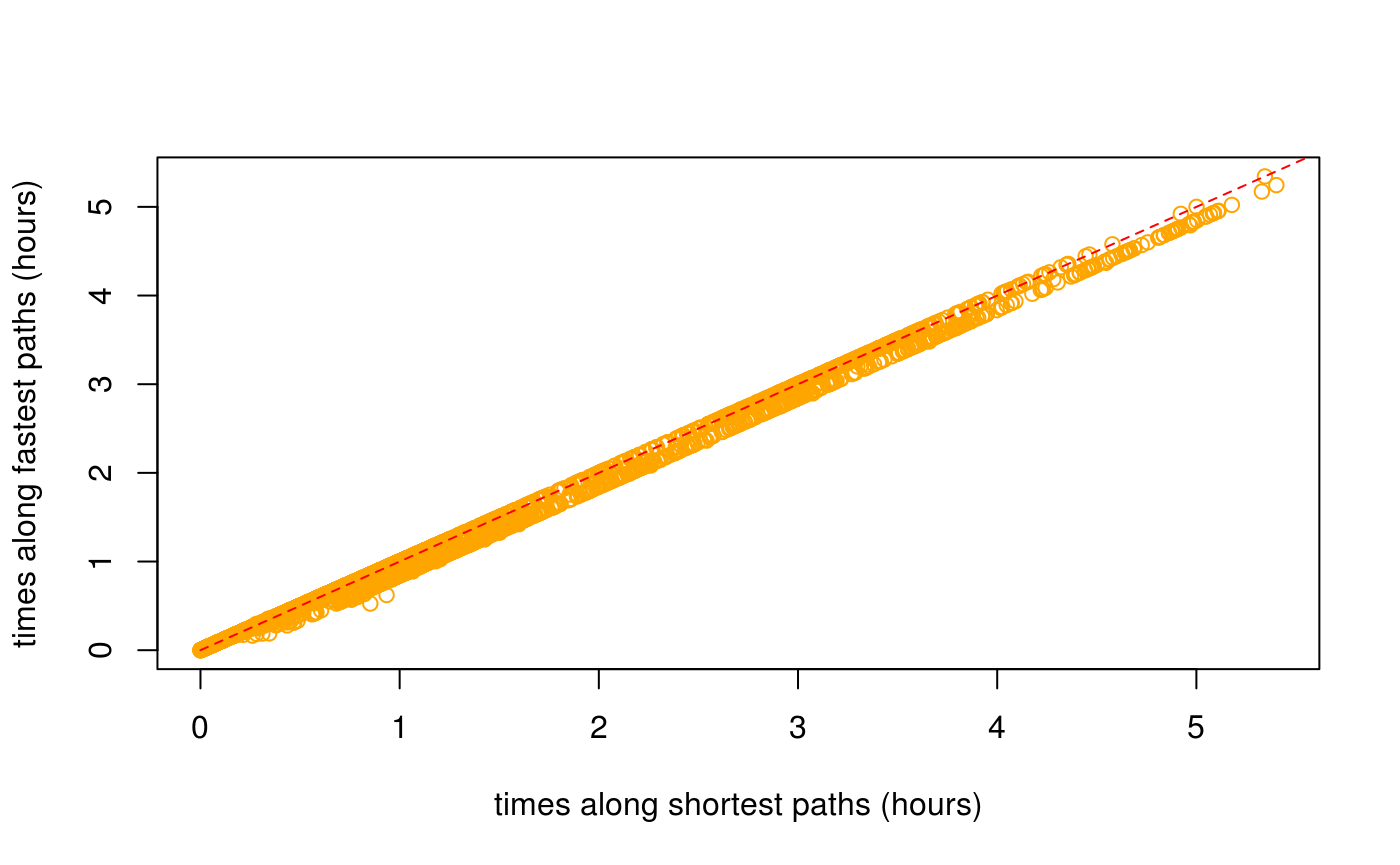
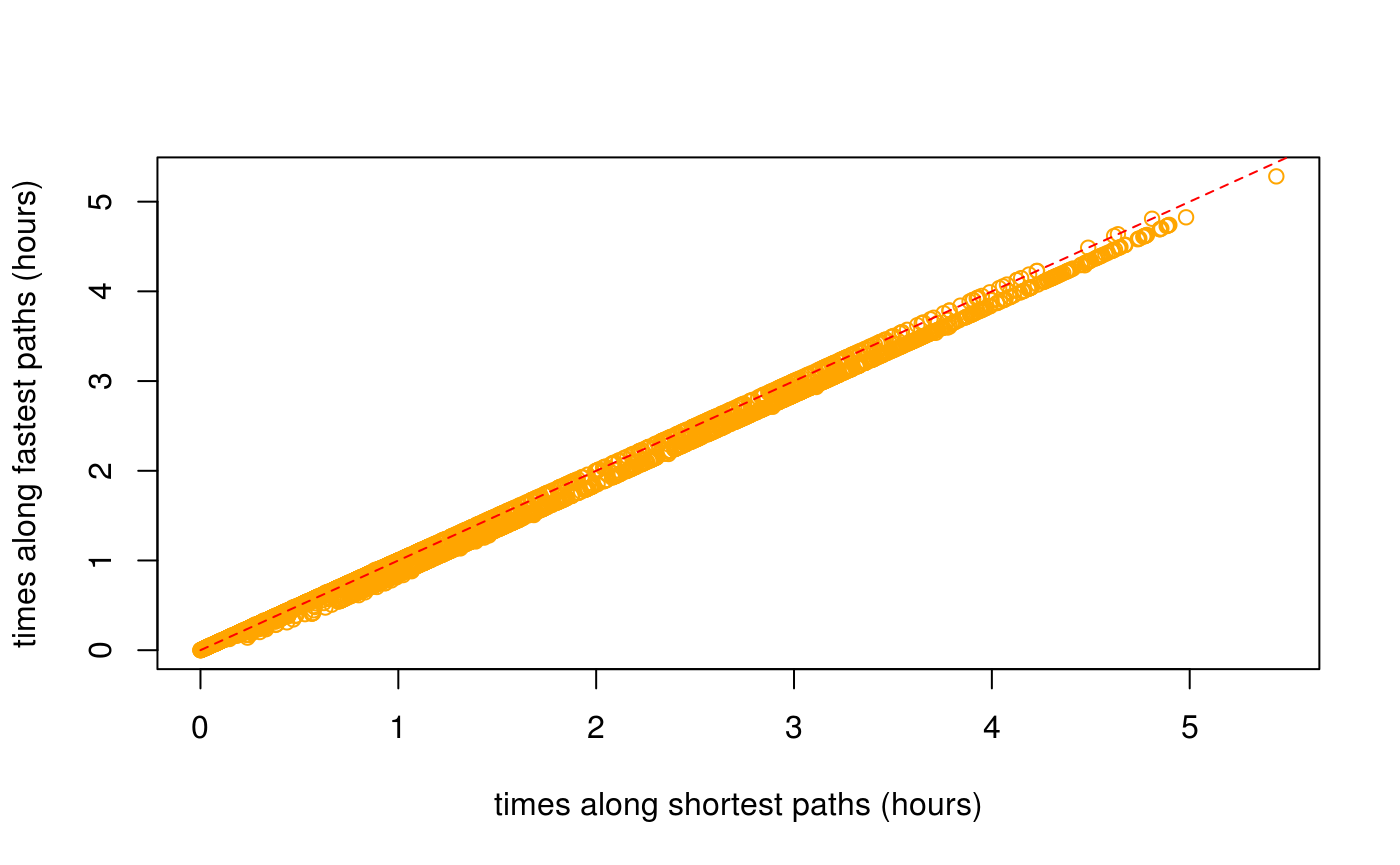
Built site for dodgr: 0.1.3.3@ded7110

diff --git a/articles/dodgr.html b/articles/dodgr.html
@@ -343,7 +343,7 @@ Figure 2: A <strong>dual</strong>-weighted, directed graph in which the weights 
 <p>The <code>dodgr</code> packages includes a function to select a random connected portion of graph including a specified number of vertices. This function is used in the <code><a href="../reference/compare_heaps.html">compare_heaps()</a></code> function described below, but is also useful for general statistical analyses of large graphs which may otherwise take too long to compute.</p>
 <div class="sourceCode" id="cb59"><pre class="sourceCode r"><code class="sourceCode r"><a class="sourceLine" id="cb59-1" data-line-number="1">graph_sub &lt;-<span class="st"> </span><span class="kw"><a href="../reference/dodgr_sample.html">dodgr_sample</a></span> (graph, <span class="dt">nverts =</span> <span class="dv">100</span>)</a>
 <a class="sourceLine" id="cb59-2" data-line-number="2"><span class="kw"><a href="https://www.rdocumentation.org/packages/base/topics/nrow">nrow</a></span> (graph_sub)</a></code></pre></div>
-<pre><code>## [1] 201</code></pre>
+<pre><code>## [1] 197</code></pre>
 <p>The random sample has around twice as many edges as vertices, in accordance with the statistics calculated above.</p>
 <div class="sourceCode" id="cb61"><pre class="sourceCode r"><code class="sourceCode r"><a class="sourceLine" id="cb61-1" data-line-number="1"><span class="kw"><a href="https://www.rdocumentation.org/packages/base/topics/nrow">nrow</a></span> (<span class="kw"><a href="../reference/dodgr_vertices.html">dodgr_vertices</a></span> (graph_sub))</a></code></pre></div>
 <pre><code>## [1] 100</code></pre>
@@ -421,30 +421,30 @@ Figure 2: A <strong>dual</strong>-weighted, directed graph in which the weights 
 <div class="sourceCode" id="cb77"><pre class="sourceCode r"><code class="sourceCode r"><a class="sourceLine" id="cb77-1" data-line-number="1"><span class="kw"><a href="../reference/compare_heaps.html">compare_heaps</a></span> (graph, <span class="dt">nverts =</span> <span class="dv">100</span>, <span class="dt">replications =</span> <span class="dv">1</span>)</a></code></pre></div>
 <pre><code>##                                                                                   test
 ## 12                  d &lt;- igraph::distances(igr, v = from_id, to = to_id, mode = "out")
+## 8     d &lt;- dodgr_dists(graph_contracted, from = from_id, to = to_id, heap = "TriHeap")
+## 9  d &lt;- dodgr_dists(graph_contracted, from = from_id, to = to_id, heap = "TriHeapExt")
+## 11        d &lt;- dodgr_dists(graph_contracted, from = from_id, to = to_id, heap = "set")
+## 2                  d &lt;- dodgr_dists(graph, from = from_id, to = to_id, heap = "FHeap")
+## 3                d &lt;- dodgr_dists(graph, from = from_id, to = to_id, heap = "TriHeap")
 ## 4             d &lt;- dodgr_dists(graph, from = from_id, to = to_id, heap = "TriHeapExt")
 ## 5                 d &lt;- dodgr_dists(graph, from = from_id, to = to_id, heap = "Heap23")
 ## 6       d &lt;- dodgr_dists(graph_contracted, from = from_id, to = to_id, heap = "BHeap")
-## 8     d &lt;- dodgr_dists(graph_contracted, from = from_id, to = to_id, heap = "TriHeap")
-## 9  d &lt;- dodgr_dists(graph_contracted, from = from_id, to = to_id, heap = "TriHeapExt")
-## 10     d &lt;- dodgr_dists(graph_contracted, from = from_id, to = to_id, heap = "Heap23")
-## 11        d &lt;- dodgr_dists(graph_contracted, from = from_id, to = to_id, heap = "set")
-## 1                  d &lt;- dodgr_dists(graph, from = from_id, to = to_id, heap = "BHeap")
-## 2                  d &lt;- dodgr_dists(graph, from = from_id, to = to_id, heap = "FHeap")
-## 3                d &lt;- dodgr_dists(graph, from = from_id, to = to_id, heap = "TriHeap")
 ## 7       d &lt;- dodgr_dists(graph_contracted, from = from_id, to = to_id, heap = "FHeap")
+## 10     d &lt;- dodgr_dists(graph_contracted, from = from_id, to = to_id, heap = "Heap23")
+## 1                  d &lt;- dodgr_dists(graph, from = from_id, to = to_id, heap = "BHeap")
 ##    replications elapsed relative user.self sys.self user.child sys.child
-## 12            1   0.001        1     0.004        0          0         0
-## 4             1   0.002        2     0.000        0          0         0
-## 5             1   0.002        2     0.000        0          0         0
-## 6             1   0.002        2     0.004        0          0         0
-## 8             1   0.002        2     0.004        0          0         0
-## 9             1   0.002        2     0.004        0          0         0
-## 10            1   0.002        2     0.004        0          0         0
-## 11            1   0.002        2     0.004        0          0         0
-## 1             1   0.003        3     0.000        0          0         0
-## 2             1   0.003        3     0.004        0          0         0
-## 3             1   0.003        3     0.004        0          0         0
-## 7             1   0.003        3     0.004        0          0         0</code></pre>
+## 12            1   0.001        1     0.000    0.000          0         0
+## 8             1   0.002        2     0.004    0.000          0         0
+## 9             1   0.002        2     0.000    0.004          0         0
+## 11            1   0.002        2     0.004    0.000          0         0
+## 2             1   0.003        3     0.004    0.000          0         0
+## 3             1   0.003        3     0.004    0.000          0         0
+## 4             1   0.003        3     0.000    0.000          0         0
+## 5             1   0.003        3     0.004    0.000          0         0
+## 6             1   0.003        3     0.004    0.000          0         0
+## 7             1   0.003        3     0.004    0.000          0         0
+## 10            1   0.003        3     0.000    0.000          0         0
+## 1             1   0.004        4     0.000    0.000          0         0</code></pre>
 <p>The key column of that <code>data.frame</code> is <code>relative</code>, which quantifies the relative performance of each test in relation to the best which is given a score of 1. <code>dodgr</code> using the default <code>heap = "BHeap"</code>, which is a binary heap priority queue, performs faster than <code>igraph</code> <span class="citation">(Csardi and Nepusz 2006)</span> for these graphs. Different kind of graphs will perform differently with different priority queue structures, and this function enables users to empirically discern the optimal heap for their kind of graph.</p>
 <p>Note, however, that this is not an entirely fair comparison, because <code>dodgr</code> calculates dual-weighted distances, whereas <code>igraph</code>—and indeed all other <strong>R</strong> packages—only directly calculate distances based on a single set of weights. Implementing dual-weighted routing in these cases requires explicitly re-tracing all paths and summing the second set of weights along each path. A time comparison in that case would be very strongly in favour of <code>dodgr</code>. Moreover, <code>dodgr</code> can convert graphs to contracted form through removing redundant vertices, as detailed in the following section. Doing so greatly improves performance with respect to <code>igraph</code>.</p>
 <p>For those wishing to do explicit comparisons themselves, the following code generates the <code>igraph</code> equivalent of <code><a href="../reference/dodgr_dists.html">dodgr_dists()</a></code>, although of course for single-weighted graphs only:</p>
@@ -481,10 +481,10 @@ Figure 3: <strong>(A)</strong> Vertex#2 is redundant for routing calculations fr
 <a class="sourceLine" id="cb85-5" data-line-number="5">                       d2 &lt;-<span class="st"> </span><span class="kw"><a href="../reference/dodgr_dists.html">dodgr_dists</a></span> (graph, <span class="dt">from =</span> from, <span class="dt">to =</span> to),</a>
 <a class="sourceLine" id="cb85-6" data-line-number="6">                       <span class="dt">replications =</span> <span class="dv">2</span>)</a></code></pre></div>
 <pre><code>##                                             test replications elapsed
-## 2 d2 &lt;- dodgr_dists(graph, from = from, to = to)            2   0.051
+## 2 d2 &lt;- dodgr_dists(graph, from = from, to = to)            2   0.049
 ## 1   d2 &lt;- dodgr_dists(grc, from = from, to = to)            2   0.010
 ##   relative user.self sys.self user.child sys.child
-## 2      5.1     0.072    0.000          0         0
+## 2      4.9     0.068    0.000          0         0
 ## 1      1.0     0.008    0.004          0         0</code></pre>
 <p>And contracting the graph has a similar effect of speeding up pairwise routing between these 100 points. All routing algorithms scale non-linearly with size, and relative improvements in efficiency will be even greater for larger graphs.</p>
 <div id="routing-on-contracted-graphs" class="section level2">
@@ -497,11 +497,11 @@ Figure 3: <strong>(A)</strong> Vertex#2 is redundant for routing calculations fr
 <pre><code>## [1] 688</code></pre>
 <div class="sourceCode" id="cb89"><pre class="sourceCode r"><code class="sourceCode r"><a class="sourceLine" id="cb89-1" data-line-number="1">verts &lt;-<span class="st"> </span><span class="kw"><a href="https://www.rdocumentation.org/packages/base/topics/sample">sample</a></span> (<span class="kw"><a href="../reference/dodgr_vertices.html">dodgr_vertices</a></span> (graph)<span class="op">$</span>id, <span class="dt">size =</span> <span class="dv">100</span>)</a>
 <a class="sourceLine" id="cb89-2" data-line-number="2"><span class="kw"><a href="https://www.rdocumentation.org/packages/utils/topics/head">head</a></span> (verts) <span class="co"># a character vector</span></a></code></pre></div>
-<pre><code>## [1] "2398957836" "1376768524" "4506481424" "2398957837" "1398748018"
-## [6] "339318488"</code></pre>
+<pre><code>## [1] "2398957713" "1143452379" "339577287"  "4337842197" "2398957746"
+## [6] "4035136519"</code></pre>
 <div class="sourceCode" id="cb91"><pre class="sourceCode r"><code class="sourceCode r"><a class="sourceLine" id="cb91-1" data-line-number="1">grc &lt;-<span class="st"> </span><span class="kw"><a href="../reference/dodgr_contract_graph.html">dodgr_contract_graph</a></span> (graph, verts)<span class="op">$</span>graph</a>
 <a class="sourceLine" id="cb91-2" data-line-number="2"><span class="kw"><a href="https://www.rdocumentation.org/packages/base/topics/nrow">nrow</a></span> (grc)</a></code></pre></div>
-<pre><code>## [1] 863</code></pre>
+<pre><code>## [1] 875</code></pre>
 <p>Retaining the nominated vertices yields a graph with considerably more edges than the fully contracted graph excluding these vertices. The <code><a href="../reference/dodgr_dists.html">dodgr_dists()</a></code> function can be applied to the latter graph to obtain accurate distances precisely routed between these points, yet using the speed advantages of graph contraction.</p>
 </div>
 </div>
@@ -542,24 +542,36 @@ Figure 3: <strong>(A)</strong> Vertex#2 is redundant for routing calculations fr
 <pre><code>## [1] 10</code></pre>
 <p>The result (<code>dp</code>) is a list of 10 items, each of which contains 5 vectors. An example is,</p>
 <div class="sourceCode" id="cb98"><pre class="sourceCode r"><code class="sourceCode r"><a class="sourceLine" id="cb98-1" data-line-number="1">dp [[<span class="dv">1</span>]] [[<span class="dv">1</span>]]</a></code></pre></div>
-<pre><code>##  [1] "3921514723" "3921514720" "3921514718" "2627444775" "571423170" 
-##  [6] "2627444774" "977490136"  "1143452068" "1143452367" "977490059" 
-## [11] "1143452278" "1143452159" "1143452544" "977490089"  "1143452396"
-## [16] "1143452220" "977490123"  "1143452126" "1143452489" "1143452342"
-## [21] "1143452177" "1143452089" "1143452419" "1143452299" "1143452136"
-## [26] "1143452064" "1143452363" "977490103"  "1143452242" "1143452100"
-## [31] "1143452508"</code></pre>
+<pre><code>##  [1] "1376768521" "1376769110" "3697937607" "3697937608" "3697937609"
+##  [6] "3697937616" "3697937612" "3697937611" "3697937613" "3697937614"
+## [11] "3697937615" "3697937610" "3697937571" "3697938325" "3697938326"
+## [16] "3697938327" "3697938328" "3697938332" "3697938329" "3697938330"
+## [21] "3697938331" "3697938336" "3697938337" "3697938338" "3697938333"
+## [26] "3697938334" "3697938335" "3697938022" "3697938021" "3697938023"
+## [31] "3697938024" "338904455"  "2398957843" "338908589"  "1148814896"
+## [36] "286632900"  "2398957865" "676875132"  "1148815150" "286632901" 
+## [41] "2398957883" "2398957885" "339574320"  "2627477682" "339574319" 
+## [46] "339574318"  "339574317"  "339574316"  "339574315"  "339574314" 
+## [51] "2636406742" "339574313"  "4474520829" "977478646"  "339059757" 
+## [56] "339060017"  "1148814953" "339060018"  "980400557"  "339060019" 
+## [61] "2717241328" "339060040"  "2717241313" "339060049"  "339287962" 
+## [66] "339287997"  "339288031"  "339288035"  "339288038"  "339288042" 
+## [71] "339288044"  "339288046"  "339288048"  "339288056"  "339288058" 
+## [76] "2428925771" "339288064"  "339288066"  "339288070"  "339288072" 
+## [81] "339288073"  "339288548"  "339288551"  "339288561"  "339288564" 
+## [86] "339288565"  "339288566"  "339288567"  "339288568"  "339288569" 
+## [91] "339288570"</code></pre>
 <p>For spatial graphs, the coordinates of these paths can be obtained by extracting the vertices with <code><a href="../reference/dodgr_vertices.html">dodgr_vertices()</a></code> and matching the vertex IDs:</p>
 <div class="sourceCode" id="cb100"><pre class="sourceCode r"><code class="sourceCode r"><a class="sourceLine" id="cb100-1" data-line-number="1">verts &lt;-<span class="st"> </span><span class="kw"><a href="../reference/dodgr_vertices.html">dodgr_vertices</a></span> (graph)</a>
 <a class="sourceLine" id="cb100-2" data-line-number="2">path1 &lt;-<span class="st"> </span>verts [<span class="kw"><a href="https://www.rdocumentation.org/packages/base/topics/match">match</a></span> (dp [[<span class="dv">1</span>]] [[<span class="dv">1</span>]], verts<span class="op">$</span>id), ]</a>
 <a class="sourceLine" id="cb100-3" data-line-number="3"><span class="kw"><a href="https://www.rdocumentation.org/packages/utils/topics/head">head</a></span> (path1)</a></code></pre></div>
 <pre><code>##              id        x        y component    n
-## 5432 3921514723 76.47011 15.35170         2 2663
-## 5430 3921514720 76.46943 15.35169         2 2662
-## 1702 3921514718 76.46921 15.35184         2  862
-## 1704 2627444775 76.46926 15.35189         2  863
-## 1706  571423170 76.46950 15.35204         2  864
-## 1708 2627444774 76.46991 15.35215         2  865</code></pre>
+## 2668 1376768521 76.46890 15.32882         1 1340
+## 2666 1376769110 76.46868 15.32884         1 1339
+## 5018 3697937607 76.46856 15.32906         1 2475
+## 5020 3697937608 76.46840 15.32926         1 2476
+## 5022 3697937609 76.46815 15.32935         1 2477
+## 5024 3697937616 76.46804 15.32937         1 2478</code></pre>
 <p>Paths calculated on contracted graphs will of course have fewer vertices than those calculated on full graphs.</p>
 </div>
 <div id="aggregated-flows" class="section level1">
@@ -603,7 +615,7 @@ Figure 3: <strong>(A)</strong> Vertex#2 is redundant for routing calculations fr
 <p>Most flows are zero because they have only been calculated between very few points in the graph.</p>
 <div class="sourceCode" id="cb105"><pre class="sourceCode r"><code class="sourceCode r"><a class="sourceLine" id="cb105-1" data-line-number="1"><span class="kw"><a href="https://www.rdocumentation.org/packages/base/topics/summary">summary</a></span> (graph_f<span class="op">$</span>flow)</a></code></pre></div>
 <pre><code>##    Min. 1st Qu.  Median    Mean 3rd Qu.    Max. 
-##   0.000   0.000   0.000   6.196   0.000 101.004</code></pre>
+##   0.000   0.000   0.000   3.505   0.000  72.947</code></pre>
 </div>
 <div id="flow-dispersal" class="section level2">
 <h2 class="hasAnchor">
@@ -613,7 +625,7 @@ Figure 3: <strong>(A)</strong> Vertex#2 is redundant for routing calculations fr
 <a class="sourceLine" id="cb107-2" data-line-number="2">graph_f &lt;-<span class="st"> </span><span class="kw"><a href="../reference/dodgr_flows_disperse.html">dodgr_flows_disperse</a></span> (graph, <span class="dt">from =</span> from, <span class="dt">dens =</span> dens)</a>
 <a class="sourceLine" id="cb107-3" data-line-number="3"><span class="kw"><a href="https://www.rdocumentation.org/packages/base/topics/summary">summary</a></span> (graph_f<span class="op">$</span>flow)</a></code></pre></div>
 <pre><code>##      Min.   1st Qu.    Median      Mean   3rd Qu.      Max. 
-## 0.000e+00 0.000e+00 0.000e+00 4.533e-06 0.000e+00 1.054e-02</code></pre>
+## 0.000e+00 0.000e+00 0.000e+00 4.465e-06 0.000e+00 1.554e-02</code></pre>
 </div>
 <div id="merging-directed-flows" class="section level2">
 <h2 class="hasAnchor">
@@ -623,7 +635,7 @@ Figure 3: <strong>(A)</strong> Vertex#2 is redundant for routing calculations fr
 <p>Resultant graphs produced by <code><a href="../reference/merge_directed_flows.html">merge_directed_flows()</a></code> only include those edges having non-zero flows, and so:</p>
 <div class="sourceCode" id="cb110"><pre class="sourceCode r"><code class="sourceCode r"><a class="sourceLine" id="cb110-1" data-line-number="1"><span class="kw"><a href="https://www.rdocumentation.org/packages/base/topics/nrow">nrow</a></span> (graph_f); <span class="kw"><a href="https://www.rdocumentation.org/packages/base/topics/nrow">nrow</a></span> (graph_undir) <span class="co"># the latter is much smaller</span></a></code></pre></div>
 <pre><code>## [1] 5845</code></pre>
-<pre><code>## [1] 1388</code></pre>
+<pre><code>## [1] 1838</code></pre>
 <p>The resultant graph can readily be merged with the original graph to regain the original data on vertex coordinates through</p>
 <div class="sourceCode" id="cb113"><pre class="sourceCode r"><code class="sourceCode r"><a class="sourceLine" id="cb113-1" data-line-number="1">graph &lt;-<span class="st"> </span>graph [graph_undir<span class="op">$</span>edge_id, ]</a>
 <a class="sourceLine" id="cb113-2" data-line-number="2">graph<span class="op">$</span>flow &lt;-<span class="st"> </span>graph_undir<span class="op">$</span>flow</a></code></pre></div>

diff --git a/articles/times.html b/articles/times.html
@@ -233,11 +233,11 @@ Figure 1: Graph modification to account for turn angles, which introduces the ad
 <p><img src="times_files/figure-html/shortest-vs-fastest-1.png" width="700"></p>
 <p>The average distance between the two (in metres) is:</p>
 <div class="sourceCode" id="cb11"><pre class="sourceCode r"><code class="sourceCode r"><a class="sourceLine" id="cb11-1" data-line-number="1"><span class="kw"><a href="https://www.rdocumentation.org/packages/base/topics/mean">mean</a></span> (<span class="kw"><a href="https://www.rdocumentation.org/packages/base/topics/MathFun">abs</a></span> (d_time <span class="op">-</span><span class="st"> </span>d_dist), <span class="dt">na.rm =</span> <span class="ot">TRUE</span>)</a></code></pre></div>
-<pre><code>## [1] 26.01338</code></pre>
+<pre><code>## [1] 32.77196</code></pre>
 <p>The plot reveals that shortest distances are indeed somewhat shorter than distances along fastest paths, but also that some fastest paths are actually shorter than shortest paths:</p>
 <div class="sourceCode" id="cb13"><pre class="sourceCode r"><code class="sourceCode r"><a class="sourceLine" id="cb13-1" data-line-number="1">index &lt;-<span class="st"> </span><span class="kw"><a href="https://www.rdocumentation.org/packages/base/topics/which">which</a></span> (<span class="op">!</span><span class="kw"><a href="https://www.rdocumentation.org/packages/base/topics/NA">is.na</a></span> (d_time) <span class="op">&amp;</span><span class="st"> </span><span class="op">!</span><span class="kw"><a href="https://www.rdocumentation.org/packages/base/topics/NA">is.na</a></span> (d_dist))</a>
 <a class="sourceLine" id="cb13-2" data-line-number="2"><span class="kw"><a href="https://www.rdocumentation.org/packages/base/topics/length">length</a></span> (<span class="kw"><a href="https://www.rdocumentation.org/packages/base/topics/which">which</a></span> (d_time [index] <span class="op">&lt;</span><span class="st"> </span>d_dist [index])) <span class="op">/</span><span class="st"> </span><span class="kw"><a href="https://www.rdocumentation.org/packages/base/topics/length">length</a></span> (index)</a></code></pre></div>
-<pre><code>## [1] 0.00702302</code></pre>
+<pre><code>## [1] 0.01737636</code></pre>
 <p>While <code>dodgr</code> and indeed all routing engines attempt to maximally reconcile differences between fastest and shortest routes, there nevertheless remain important discrepancies. Foremost among these, and the primary reason why some fastest routes may in fact be shorter than shortest routes, is that fastest routes allocate preferences for different kinds of way based both on the <code>value</code> column in the <code>weighting_profiles$weighting_profiles</code> table illustrated above, and on the actual maximum speed of a given edge, which itself may be a combination of maximum speeds as specified in OSM itself, maximum speeds from the <code>weighting_profiles$weighting_profiles</code> table, or values specific to a given surface. The result is that some unique combination of maximum speeds along a network may lead to <em>fastest</em> routes being preferentially directed along a path that is actually shorter than the direct shortest path which is calculated independent of maximum speed values.</p>
 <p>Such discrepancies are important in understanding differences in routes <em>times</em> calculated along shortest versus fastest paths. These times can be calculated (in seconds) with the <a href="https://atfutures.github.io/dodgr/reference/dodgr_times.html"><code><a href="../reference/dodgr_times.html">dodgr_times()</a></code></a> function:</p>
 <div class="sourceCode" id="cb15"><pre class="sourceCode r"><code class="sourceCode r"><a class="sourceLine" id="cb15-1" data-line-number="1">t_dist &lt;-<span class="st"> </span><span class="kw"><a href="../reference/dodgr_times.html">dodgr_times</a></span> (graph, <span class="dt">from =</span> from, <span class="dt">to =</span> to, <span class="dt">shortest =</span> <span class="ot">TRUE</span>) <span class="co"># default</span></a>
@@ -248,11 +248,11 @@ Figure 1: Graph modification to account for turn angles, which introduces the ad
 <a class="sourceLine" id="cb15-6" data-line-number="6"><span class="kw"><a href="https://www.rdocumentation.org/packages/graphics/topics/lines">lines</a></span> (<span class="dv">0</span><span class="op">:</span><span class="dv">100</span>, <span class="dv">0</span><span class="op">:</span><span class="dv">100</span>, <span class="dt">col =</span> <span class="st">"red"</span>, <span class="dt">lty =</span> <span class="dv">2</span>)</a></code></pre></div>
 <p><img src="times_files/figure-html/shortest-vs-fastest-times-1.png" width="700"></p>
 <div class="sourceCode" id="cb16"><pre class="sourceCode r"><code class="sourceCode r"><a class="sourceLine" id="cb16-1" data-line-number="1"><span class="kw"><a href="https://www.rdocumentation.org/packages/base/topics/mean">mean</a></span> (<span class="kw"><a href="https://www.rdocumentation.org/packages/base/topics/MathFun">abs</a></span> (t_time <span class="op">-</span><span class="st"> </span>t_dist), <span class="dt">na.rm =</span> <span class="ot">TRUE</span>)</a></code></pre></div>
-<pre><code>## [1] 99.58596</code></pre>
+<pre><code>## [1] 127.5185</code></pre>
 <p>As above, times along fastest paths are generally less than times along shortest paths, although there are again a few exceptions:</p>
 <div class="sourceCode" id="cb18"><pre class="sourceCode r"><code class="sourceCode r"><a class="sourceLine" id="cb18-1" data-line-number="1">index &lt;-<span class="st"> </span><span class="kw"><a href="https://www.rdocumentation.org/packages/base/topics/which">which</a></span> (<span class="op">!</span><span class="kw"><a href="https://www.rdocumentation.org/packages/base/topics/NA">is.na</a></span> (t_time) <span class="op">&amp;</span><span class="st"> </span><span class="op">!</span><span class="kw"><a href="https://www.rdocumentation.org/packages/base/topics/NA">is.na</a></span> (t_dist))</a>
 <a class="sourceLine" id="cb18-2" data-line-number="2"><span class="kw"><a href="https://www.rdocumentation.org/packages/base/topics/length">length</a></span> (<span class="kw"><a href="https://www.rdocumentation.org/packages/base/topics/which">which</a></span> (t_dist [index] <span class="op">&lt;</span><span class="st"> </span>t_time [index])) <span class="op">/</span><span class="st"> </span><span class="kw"><a href="https://www.rdocumentation.org/packages/base/topics/length">length</a></span> (index)</a></code></pre></div>
-<pre><code>## [1] 0.009949278</code></pre>
+<pre><code>## [1] 0.01317548</code></pre>
 <p>These results demonstrate how the combination of the <a href="https://atfutures.github.io/dodgr/reference/dodgr_distances.html"><code><a href="../reference/dodgr_distances.html">dodgr_distances()</a></code></a> and <a href="https://atfutures.github.io/dodgr/reference/dodgr_times.html"><code><a href="../reference/dodgr_times.html">dodgr_times()</a></code></a> functions enable calculation of both distances and times along both shortest and fastest paths.</p>
 <div id="time-based-paths-and-flow-aggregation" class="section level2">
 <h2 class="hasAnchor">

diff --git a/reference/compare_heaps.html b/reference/compare_heaps.html
@@ -154,31 +154,31 @@ fair comparisons, run only once or re-start the current R session.</p>
     <h2 class="hasAnchor" id="examples"><a class="anchor" href="#examples"></a>Examples</h2>
     <pre class="examples"><div class='input'><span class='no'>graph</span> <span class='kw'>&lt;-</span> <span class='fu'><a href='weight_streetnet.html'>weight_streetnet</a></span> (<span class='no'>hampi</span>)
 <span class='fu'>compare_heaps</span> (<span class='no'>graph</span>, <span class='kw'>nverts</span> <span class='kw'>=</span> <span class='fl'>1000</span>, <span class='kw'>replications</span> <span class='kw'>=</span> <span class='fl'>1</span>)</div><div class='output co'>#&gt;                                                                                   test
-#&gt; 11        d &lt;- dodgr_dists(graph_contracted, from = from_id, to = to_id, heap = "set")
 #&gt; 6       d &lt;- dodgr_dists(graph_contracted, from = from_id, to = to_id, heap = "BHeap")
+#&gt; 11        d &lt;- dodgr_dists(graph_contracted, from = from_id, to = to_id, heap = "set")
+#&gt; 10     d &lt;- dodgr_dists(graph_contracted, from = from_id, to = to_id, heap = "Heap23")
 #&gt; 7       d &lt;- dodgr_dists(graph_contracted, from = from_id, to = to_id, heap = "FHeap")
 #&gt; 8     d &lt;- dodgr_dists(graph_contracted, from = from_id, to = to_id, heap = "TriHeap")
 #&gt; 9  d &lt;- dodgr_dists(graph_contracted, from = from_id, to = to_id, heap = "TriHeapExt")
-#&gt; 10     d &lt;- dodgr_dists(graph_contracted, from = from_id, to = to_id, heap = "Heap23")
 #&gt; 12                  d &lt;- igraph::distances(igr, v = from_id, to = to_id, mode = "out")
 #&gt; 1                  d &lt;- dodgr_dists(graph, from = from_id, to = to_id, heap = "BHeap")
-#&gt; 3                d &lt;- dodgr_dists(graph, from = from_id, to = to_id, heap = "TriHeap")
 #&gt; 2                  d &lt;- dodgr_dists(graph, from = from_id, to = to_id, heap = "FHeap")
+#&gt; 3                d &lt;- dodgr_dists(graph, from = from_id, to = to_id, heap = "TriHeap")
 #&gt; 5                 d &lt;- dodgr_dists(graph, from = from_id, to = to_id, heap = "Heap23")
 #&gt; 4             d &lt;- dodgr_dists(graph, from = from_id, to = to_id, heap = "TriHeapExt")
 #&gt;    replications elapsed relative user.self sys.self user.child sys.child
-#&gt; 11            1   0.005      1.0     0.008    0.000          0         0
-#&gt; 6             1   0.006      1.2     0.008    0.000          0         0
-#&gt; 7             1   0.006      1.2     0.012    0.000          0         0
-#&gt; 8             1   0.007      1.4     0.008    0.000          0         0
-#&gt; 9             1   0.007      1.4     0.008    0.000          0         0
-#&gt; 10            1   0.007      1.4     0.008    0.004          0         0
-#&gt; 12            1   0.016      3.2     0.012    0.000          0         0
-#&gt; 1             1   0.026      5.2     0.044    0.000          0         0
-#&gt; 3             1   0.034      6.8     0.060    0.000          0         0
-#&gt; 2             1   0.035      7.0     0.052    0.000          0         0
-#&gt; 5             1   0.035      7.0     0.060    0.000          0         0
-#&gt; 4             1   0.037      7.4     0.040    0.000          0         0</div></pre>
+#&gt; 6             1   0.006    1.000     0.012        0          0         0
+#&gt; 11            1   0.006    1.000     0.008        0          0         0
+#&gt; 10            1   0.007    1.167     0.012        0          0         0
+#&gt; 7             1   0.008    1.333     0.012        0          0         0
+#&gt; 8             1   0.008    1.333     0.012        0          0         0
+#&gt; 9             1   0.008    1.333     0.008        0          0         0
+#&gt; 12            1   0.017    2.833     0.016        0          0         0
+#&gt; 1             1   0.028    4.667     0.044        0          0         0
+#&gt; 2             1   0.036    6.000     0.060        0          0         0
+#&gt; 3             1   0.036    6.000     0.064        0          0         0
+#&gt; 5             1   0.036    6.000     0.064        0          0         0
+#&gt; 4             1   0.039    6.500     0.036        0          0         0</div></pre>
   </div>
   <div class="col-md-3 hidden-xs hidden-sm" id="sidebar">
     <h2>Contents</h2>

diff --git a/index.html b/index.html
@@ -513,7 +513,7 @@
 <td align="right">1</td>
 <td align="right">95.358362</td>
 <td align="right">105.953735</td>
-<td align="right">44.77592</td>
+<td align="right">27.93419</td>
 </tr>
 <tr class="even">
 <td align="right">1</td>
@@ -531,7 +531,7 @@
 <td align="right">1</td>
 <td align="right">95.358362</td>
 <td align="right">105.953735</td>
-<td align="right">64.78958</td>
+<td align="right">100.00137</td>
 </tr>
 <tr class="odd">
 <td align="right">1</td>
@@ -549,7 +549,7 @@
 <td align="right">1</td>
 <td align="right">6.399843</td>
 <td align="right">7.110936</td>
-<td align="right">44.77592</td>
+<td align="right">27.93419</td>
 </tr>
 <tr class="even">
 <td align="right">1</td>
@@ -567,7 +567,7 @@
 <td align="right">1</td>
 <td align="right">6.399843</td>
 <td align="right">7.110936</td>
-<td align="right">64.78958</td>
+<td align="right">100.00137</td>
 </tr>
 <tr class="odd">
 <td align="right">1</td>
@@ -585,7 +585,7 @@
 <td align="right">1</td>
 <td align="right">6.715106</td>
 <td align="right">7.461229</td>
-<td align="right">44.77592</td>
+<td align="right">27.93419</td>
 </tr>
 <tr class="even">
 <td align="right">1</td>
@@ -603,7 +603,7 @@
 <td align="right">1</td>
 <td align="right">6.715106</td>
 <td align="right">7.461229</td>
-<td align="right">64.78958</td>
+<td align="right">100.00137</td>
 </tr>
 </tbody>
 </table>
